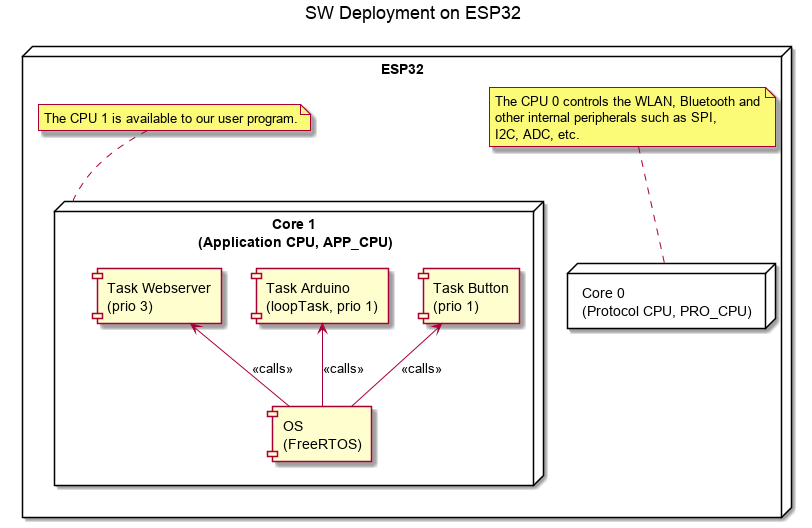
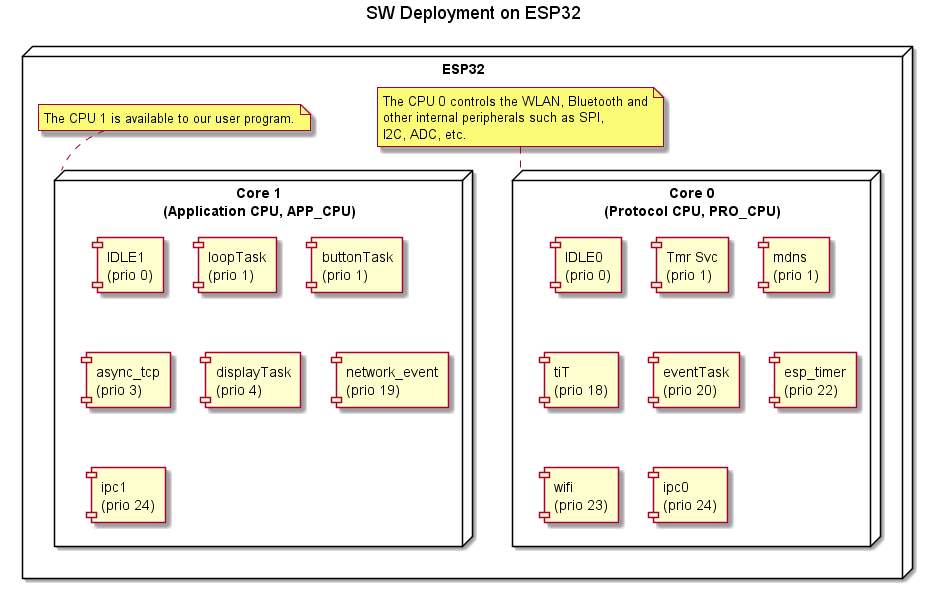
Deployment updated to current state. Display update task name changed, to a shorter length.

diff --git a/src/Gfx/DisplayMgr.cpp b/src/Gfx/DisplayMgr.cpp
@@ -105,7 +105,7 @@ bool DisplayMgr::init(void)
         BaseType_t  osRet   = pdFAIL;
 
         osRet = xTaskCreateUniversal(   updateTask,
-                                        "displayUpdateTask",
+                                        "displayTask",
                                         UPDATE_TASK_STACKE_SIZE,
                                         this,
                                         4,
